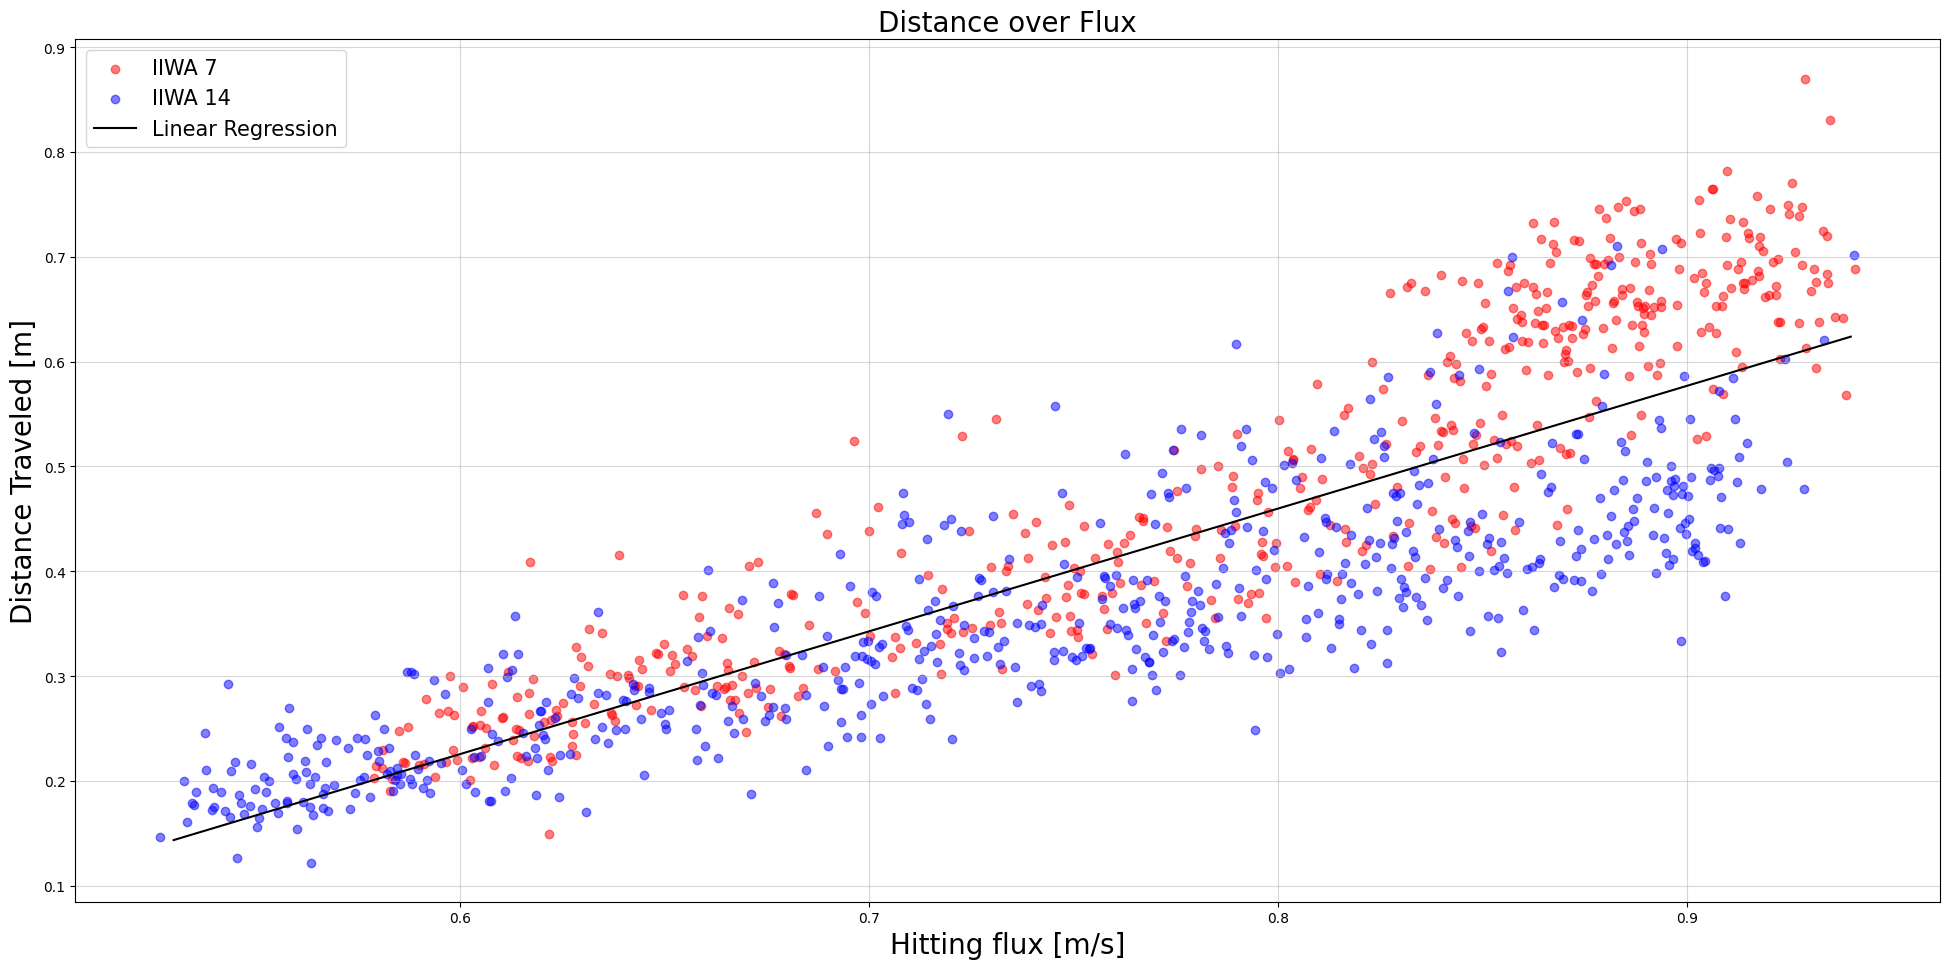
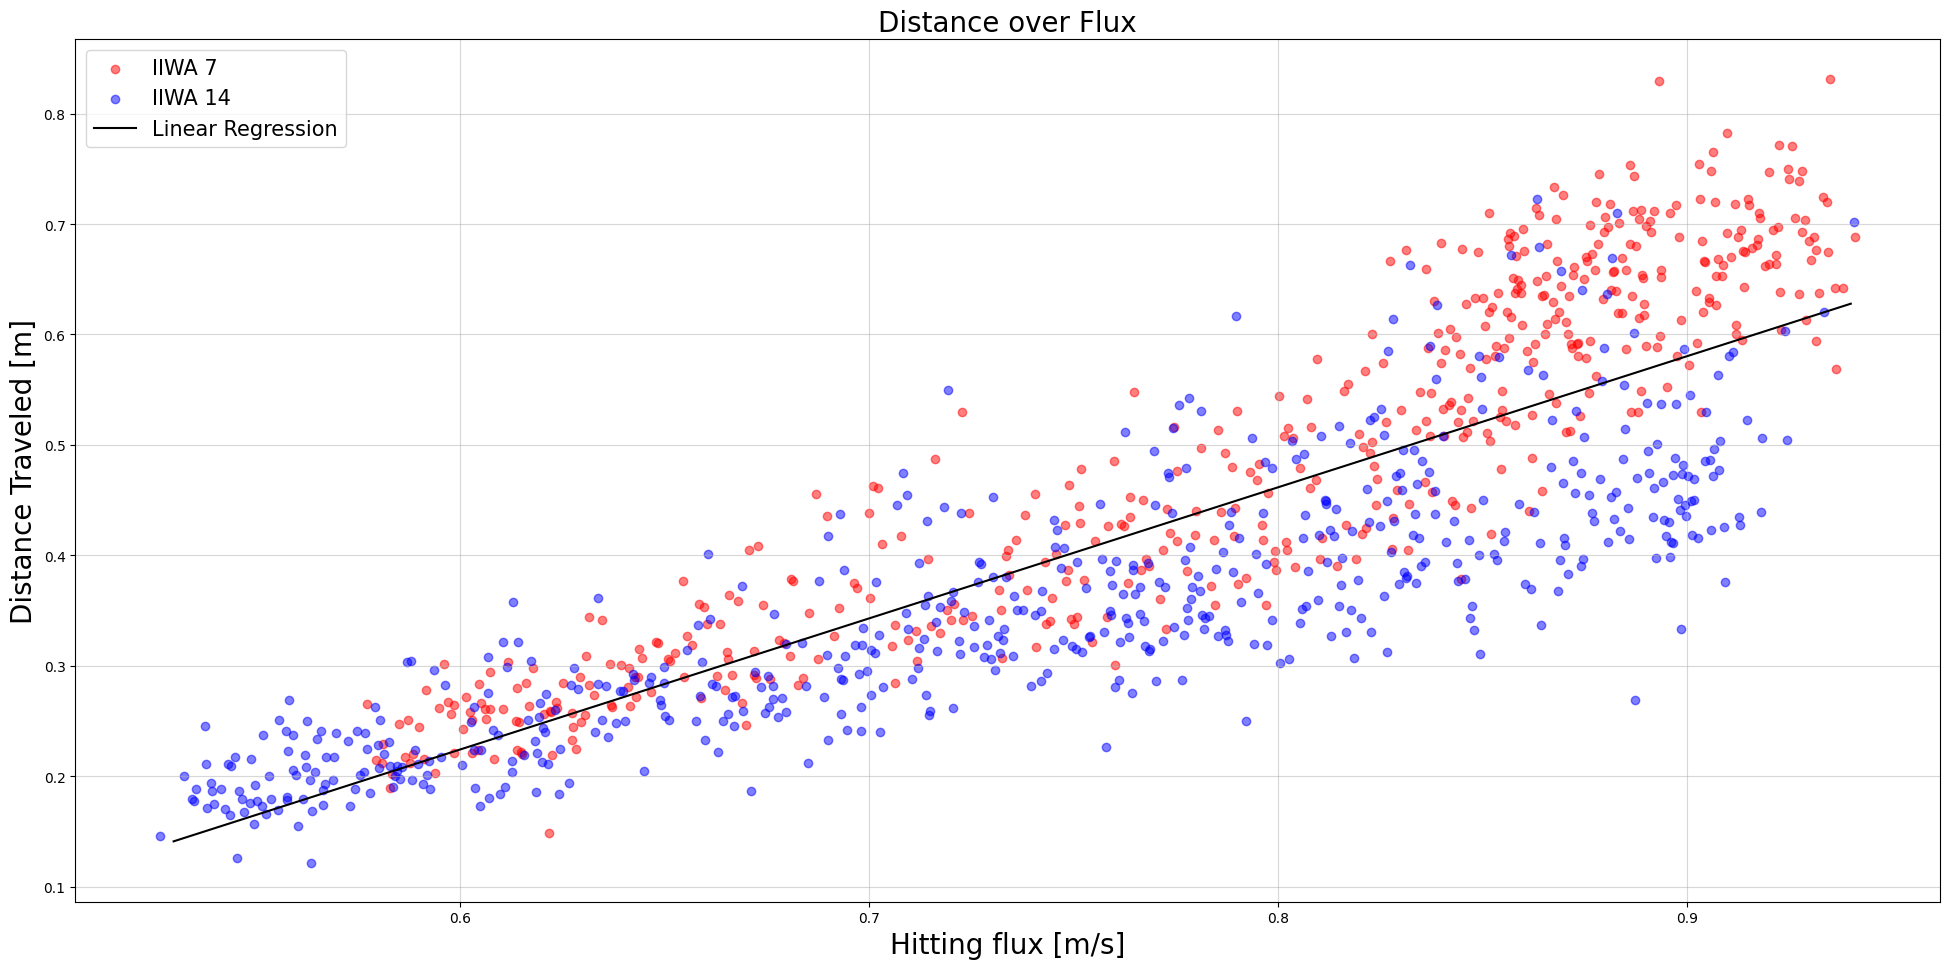
minor update

Changed region(s): [[0.0923, 0.1548, 0.9538, 0.8669], [0.0923, 0.6811, 0.1231, 0.7121]]

diff --git a/python/analyse_data.py b/python/analyse_data.py
@@ -87,7 +87,7 @@ def restructure_for_config_agnostic_plot(df_cfg1, df_cfg2):
     return df_combined
 
 # CLEANING FUNCTION
-def clean_data(df, distance_threshold=0.05, flux_threshold=0.5, save_clean_df=False):
+def clean_data(df, resample=False, distance_threshold=0.05, flux_threshold=0.5, save_clean_df=False):
     
     ### Remove low outliers -> due to way of recording and processing
     # Distance
@@ -97,7 +97,7 @@ def clean_data(df, distance_threshold=0.05, flux_threshold=0.5, save_clean_df=Fa
     # Desired Flux 
     clean_df = clean_df[clean_df['DesiredFlux']>flux_threshold]
 
-    clean_df = resample_uniformally(clean_df, n_samples=2000)
+    if resample : clean_df = resample_uniformally(clean_df, n_samples=2000)
     # clean_df = clean_df[clean_df['DesiredFlux']<0.9]
 
     # IIWA
@@ -708,6 +708,7 @@ def plot_object_trajectory(df, use_mplcursors=True, selection="all", show_plot =
     
     if show_plot : plt.show()
 
+
 def plot_object_trajectory_onefig(df, dataset_path="varying_flux_datasets/D1/", use_mplcursors=False, selection="all", show_plot = False):
 
     fig, axes = plt.subplots(2, 1, figsize=(20, 10), sharex=True)
@@ -804,7 +805,6 @@ def plot_object_trajectory_onefig(df, dataset_path="varying_flux_datasets/D1/", 
     # plt.title(f"Object trajectories seen from above", fontsize=GLOBAL_FONTSIZE)
     
     if show_plot : plt.show()
-
 
 def plot_object_start_end(df, dataset_path="varying_flux_datasets/D1/", relative=True, use_mplcursors=True, selection="all", show_plot = False):
     # Plot object start and end view form above 
@@ -1314,7 +1314,6 @@ if __name__== "__main__" :
     processed_raw_folder = PATH_TO_DATA_FOLDER + "airhockey_processed/raw/"
     
     ### Datafile to use
-    # csv_fn ="100_hits-object_1-config_1-fixed_start-random_flux-IIWA_7-reduced_inertia" #"data_test_april"#  #"data_consistent_march"
     csv_fn = "D1_clean"#"D1_clean" #"data_test_april"#  #"data_consistent_march"
 
     ## Reading and cleanign data 
@@ -1322,7 +1321,7 @@ if __name__== "__main__" :
         'ObjectPos' : parse_strip_list, 'HittingPos': parse_strip_list, 'ObjectOrientation' : parse_strip_list,'AttractorPos' : parse_strip_list,
         'HittingOrientation': parse_strip_list, 'ObjectPosStart' : parse_strip_list,'ObjectPosEnd' : parse_strip_list})#
     
-    clean_df = clean_data(df, save_clean_df=True)
+    clean_df = clean_data(df, resample=True, save_clean_df=True)
 
     ## restructre data for paper plots 
     # csv_fn2 = "D3"
@@ -1358,7 +1357,7 @@ if __name__== "__main__" :
     # plot_distance_vs_flux(df_combined, colors="config", with_linear_regression=True, use_mplcursors=False)
     # plot_object_trajectory_onefig(clean_df, dataset_path="varying_flux_datasets/D1/", use_mplcursors=False, selection="selected")
 
-    save_all_figures(folder_name="robot_agnostic")
+    save_all_figures(folder_name=csv_fn)
     plt.show()
 
 
